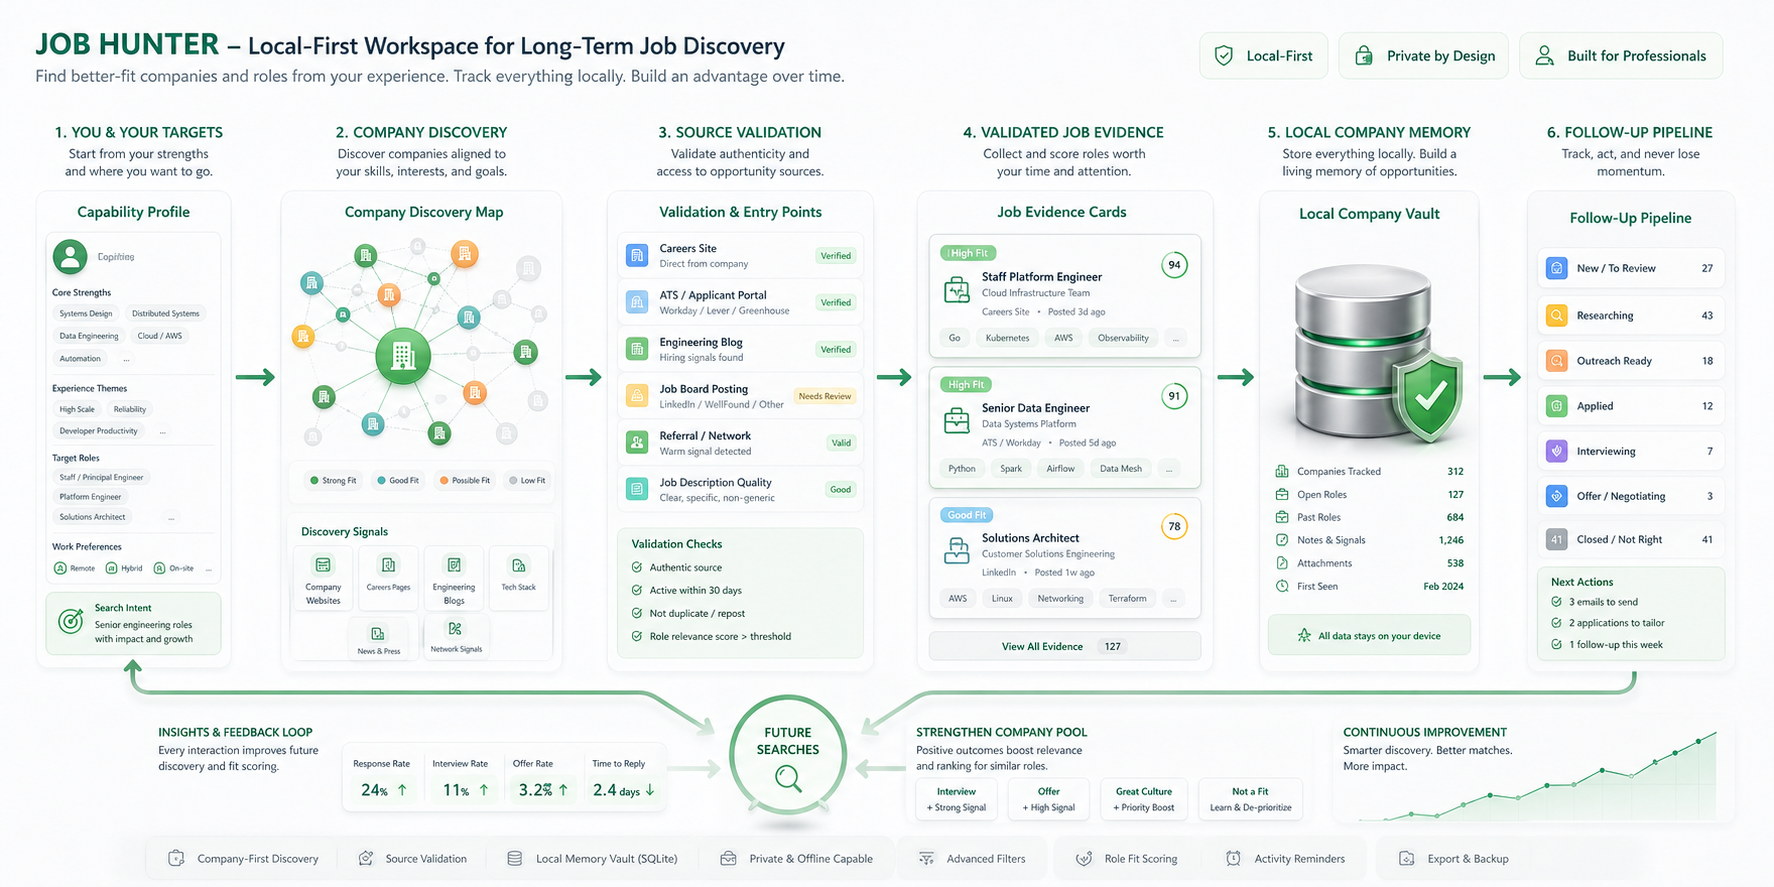
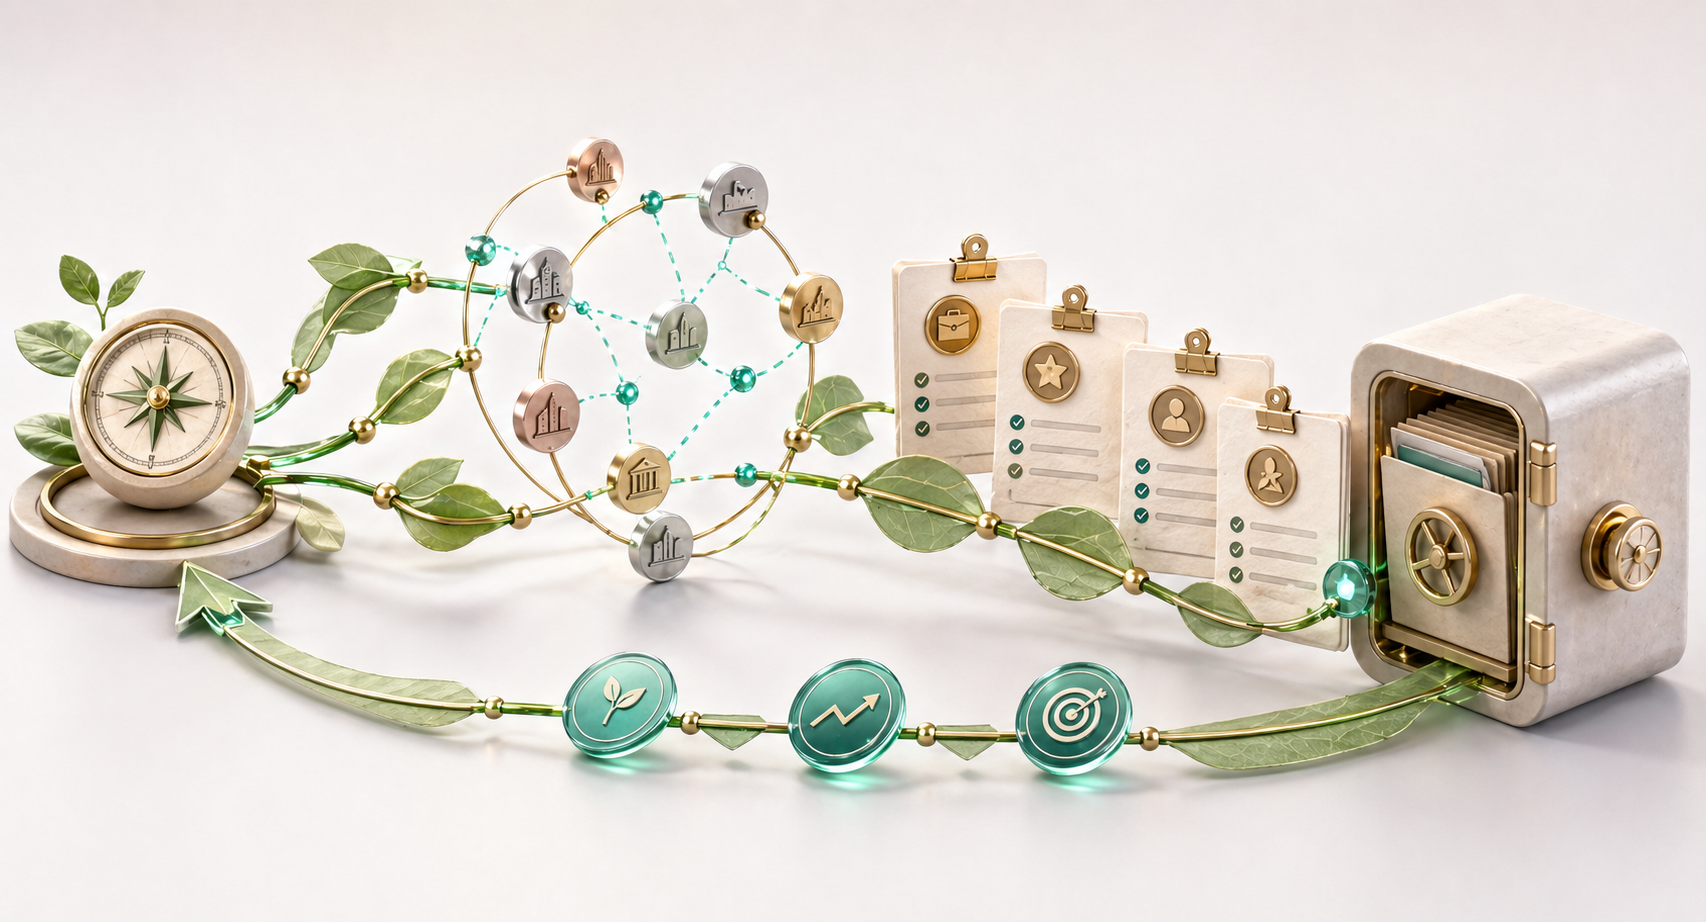
Replace README hero with artful workflow visual

diff --git a/assets/readme-hero/hero_prompt.md b/assets/readme-hero/hero_prompt.md
@@ -1,3 +1,3 @@
 # README Hero Prompt
 
-Create a bright wide GitHub README concept hero image for Job Hunter, a local-first desktop workspace for experienced professionals managing long-term job discovery. Style: premium conceptual product diagram, semi-realistic 3D schematic, clean light background with green, teal, amber accents, modern but not dark. Visual meaning: candidate capabilities and target roles enter on the left, flow into company discovery and source validation, produce validated job evidence cards, update a local company memory vault, then feed a follow-up tracking pipeline. Show a clear loop where good roles strengthen the company pool for future searches. Use icons and visual objects: capability profile, company network map, ATS/careers entry points, job evidence cards, local database vault, review statuses. Make the project purpose obvious: find better-fit companies and roles from experience, then track them locally over time. Composition: wide airy banner, conceptual flow from left to right plus feedback loop, no night office scene. Avoid: humanoid robots, people, dark workstation, generic job board screenshot, real company names, personal data, resume details, wall of screens, cartoon style, anime, childish illustration, watermark, logo, Chinese text, long paragraphs, gibberish text.
+Create a bright wide GitHub README concept hero image for Job Hunter. Premium art-directed conceptual workflow visual, semi-realistic 3D product-object render, clean light studio background, modern and professional but not dark. Use a distinct material language: warm paper dossier cards, brushed brass pins, soft green botanical leaf-vein pathways, teal resin signal nodes, and small polished metal company markers; avoid a glass-dominated look. No words, no labels, no letters, no logo, no UI text anywhere in the image. Visual meaning: a candidate capability seed or compass-like core on the left sends branching leaf-vein paths into an orbiting company-discovery constellation; promising company markers crystallize into role-evidence cards; validated opportunities flow into a compact local memory vault; a follow-up ribbon loops back to strengthen future discovery. Make the purpose obvious visually: experienced professionals discover better-fit companies and preserve local job-search evidence over time. Composition: wide airy banner, elegant left-to-right plus feedback-loop workflow, refined product explainer sculpture, clear stages, dimensional objects, soft shadows, no humanoid robot, no people, no dark office, no wall of screens. Avoid real company names, personal data, generic job board, flat flowchart, generic dashboard, cartoon style, anime, childish illustration, watermark, readable text, pseudo text, Chinese text, gibberish text.

diff --git a/assets/readme-hero/hero_design_note.md b/assets/readme-hero/hero_design_note.md
@@ -22,15 +22,19 @@ A local-first desktop workspace for building persistent job-search evidence and 
 
 ## Visual concept
 
-A bright workflow diagram where candidate capabilities feed company discovery, source validation, job evidence, local company memory, and a follow-up pipeline with a feedback loop.
+A bright capability-to-company discovery sculpture where a candidate seed branches into a company constellation, role evidence cards, local memory, and a follow-up loop.
+
+## Material language
+
+Warm paper dossier cards, brushed brass pins, botanical leaf-vein pathways, teal resin signal nodes, and polished metal company markers.
 
 ## Image keywords
 
-bright conceptual schematic, candidate capability profile, company discovery, validated job evidence, local company memory, follow-up pipeline
+premium workflow visual, candidate capabilities, company discovery constellation, evidence cards, local memory vault, follow-up loop
 
 ## Generation method
 
-Direct project-specific text-to-image generation using a bright conceptual schematic direction. This hero is not a reused SVG, HTML, Canvas, Pillow, robot-screen scene, or dark dashboard template.
+Direct project-specific text-to-image generation using a premium art-directed product-object workflow direction. The prompt used paper, brass, botanical, resin, and metal materials to distinguish this project from technical verification and memory-system visuals.
 
 ## File paths
 
@@ -40,4 +44,4 @@ Direct project-specific text-to-image generation using a bright conceptual schem
 
 ## README insertion position
 
-Updated the existing README HERO block after the first H1 heading.
+Existing README HERO block after the first H1 heading; image file replaced without rewriting the README body.
